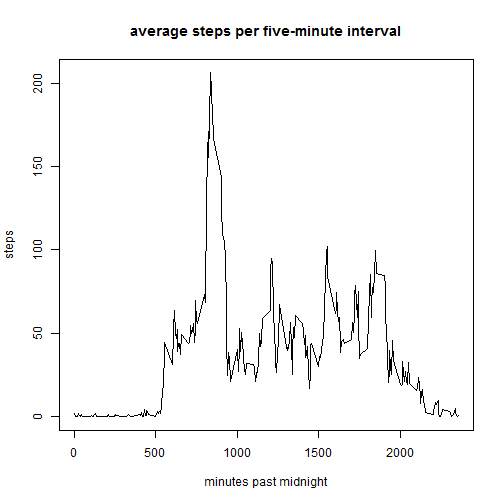
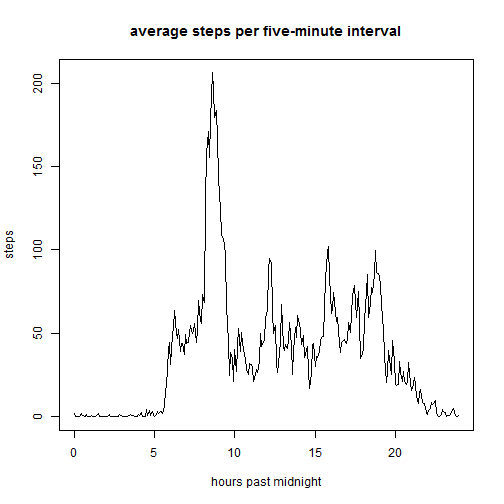
final changes
final changes

diff --git a/PA1_template.html b/PA1_template.html
@@ -3,7 +3,7 @@
 <head>
 <meta http-equiv="Content-Type" content="text/html; charset=utf-8"/>
 
-<title>Loading and preprocessing the data</title>
+<title>date: &ldquo;Sunday, November 15, 2015&rdquo;</title>
 
 <script type="text/javascript">
 window.onload = function() {
@@ -201,11 +201,25 @@ hr {
 </head>
 
 <body>
+<hr/>
+
+<p>title: &ldquo;Assignment 1 for Reproducible Research course&rdquo;</p>
+
+<p>output:
+  html_document:
+    keep_md: true</p>
+
+<p>author: &ldquo;Sumit Rahman&rdquo;</p>
+
+<h2>date: &ldquo;Sunday, November 15, 2015&rdquo;</h2>
+
 <h2>Loading and preprocessing the data</h2>
 
 <p>The following code reads the data, aggregates it by day (excluding NAs) and generates a histogram showing the distribution of the daily total number of steps:</p>
 
-<pre><code class="r">activity &lt;- read.table(unz(&quot;repdata-data-activity.zip&quot;, &quot;activity.csv&quot;), 
+<pre><code class="r">require(knitr)
+knit_theme$set(&quot;golden&quot;)
+activity &lt;- read.table(unz(&quot;repdata-data-activity.zip&quot;, &quot;activity.csv&quot;), 
                        header=T, quote=&quot;\&quot;&quot;, sep=&quot;,&quot;)
 daily.steps&lt;-aggregate(formula=steps ~ date, FUN=sum,data=activity, na.rm=TRUE)
 
@@ -228,22 +242,26 @@ result2&lt;-median(daily.steps$steps)
 
 <h2>What is the average daily activity pattern?</h2>
 
-<p>Now we take the mean number of steps for each 5 minute interval, averaged across all days, and plot this as a line graph:</p>
+<p>Now we take the mean number of steps for each 5 minute interval, averaged across all days, and plot this as a line graph.  First we convert the &#39;interval&#39; variable into hours past midnight.</p>
 
-<pre><code class="r">time.steps&lt;-aggregate(formula=steps ~ interval, FUN=mean,data=activity, 
+<pre><code class="r">activity$mins&lt;-activity$interval%%100
+activity$hrs&lt;-(activity$interval-activity$mins)/100
+activity$hrspastmidnight&lt;-activity$hrs+activity$mins/60
+
+time.steps&lt;-aggregate(formula=steps ~ hrspastmidnight, FUN=mean,data=activity, 
                       na.rm=TRUE)
 plot(time.steps, type=&quot;l&quot;,main=&quot;average steps per five-minute interval&quot;, 
-     xlab=&quot;minutes past midnight&quot;)
+     xlab=&quot;hours past midnight&quot;)
 </code></pre>
 
[2 lines of base64/hex data omitted]
 
 <p>The following code finds the interval with the largest (average) number of steps:</p>
 
-<pre><code class="r">max.interval&lt;-time.steps$interval[which(x = time.steps$steps==max(time.steps$steps),arr.ind = TRUE)]
+<pre><code class="r">max.interval&lt;-time.steps$hrspastmidnight[which(x = time.steps$steps==max(time.steps$steps),arr.ind = TRUE)]
 </code></pre>
 
-<p>The interval which has the greatest average steps taken is the five minute interval starting 835 minutes after midnight.  This average is 206.17.</p>
+<p>The interval which has the greatest average steps taken is the five minute interval starting 8.58 hours after midnight, i.e. at 8:35 in the morning.  This average is 206.17.</p>
 
 <h2>Imputing missing values</h2>
 
@@ -259,10 +277,10 @@ daily.steps.imputed&lt;-aggregate(formula=imputed ~ date, FUN=sum,
 
 hist(daily.steps.imputed$imputed, freq=FALSE, 
      main=&quot;total daily steps in October and November 2012&quot;, 
-     xlab=&quot;minutes past midnight&quot;)
+     xlab=&quot;daily steps&quot;)
 </code></pre>
 
[2 lines of base64/hex data omitted]
 
 <p>We also recalculate the mean and median for the total daily steps.</p>
 
@@ -279,27 +297,31 @@ result4&lt;-median(daily.steps.imputed$imputed)
 <p>Finally, we use the imputed dataset and recalculate the average number of steps per 5 minute interval, but distinguishing between weekdays and weekends.  We then plot line graphs for both these cases.</p>
 
 <pre><code class="r">require(ggplot2)
-activity$day&lt;-weekdays(as.POSIXct(activity$date))
+</code></pre>
+
+<pre><code>## Loading required package: ggplot2
+</code></pre>
+
+<pre><code class="r">activity$day&lt;-weekdays(as.POSIXct(activity$date))
 activity$is.weekend&lt;-ifelse(activity$day==&quot;Saturday&quot;,&quot;weekends&quot;,
                             ifelse(activity$day==&quot;Sunday&quot;,
                                    &quot;weekends&quot;,&quot;weekdays&quot;))
 interval.daytype&lt;-aggregate(activity$imputed, 
-                            list(interval = activity$interval, 
-                                 day = activity$is.weekend), mean)
+                            list(hrspastmidnight = activity$hrspastmidnight,  day = activity$is.weekend), mean)
 
-ggplot(data=interval.daytype, aes(x=interval, y=x))+
+ggplot(data=interval.daytype, aes(x=hrspastmidnight, y=x))+
   geom_line()+facet_grid(day~.)+
   theme(plot.title=element_text(size=rel(1.5)),
         strip.text=element_text(size=rel(2)))+
   ggtitle(&quot;average number of steps per five-minute interval \n
           for weekdays and weekends&quot;)+
-  xlab(&quot;minutes past midnight&quot;)+
+  xlab(&quot;hours past midnight&quot;)+
   ylab(&quot;average number of steps&quot;)
 </code></pre>
 
[2 lines of base64/hex data omitted]
 
-<p>We see from this chart that during weekdays there is a much more pronounced peak in step activity corresponding to lunchtime (approximately 800 minutes past midnight).  There is also a steeper increase in weekdays (compared to weekends) at roughly 9 a.m. corresponding to the start of the working day (just after 500 minutes past midnight).</p>
+<p>We see from this chart that during weekdays there is a much more pronounced peak in step activity corresponding to about 6 or 7 am, when people are getting up to get ready for work.  There is also a steeper increase in weekdays (compared to weekends) at roughly 9 a.m. corresponding to the start of the working day.  There is more activity in the weekends during the day from 10am.</p>
 
 </body>
 

diff --git a/PA1_template.md b/PA1_template.md
@@ -1,3 +1,4 @@
+
 ----
 title: "Assignment 1 for Reproducible Research course"
 
@@ -6,7 +7,7 @@ output:
     keep_md: true
     
 author: "Sumit Rahman"
-date: "Saturday, November 14, 2015"
+date: "Sunday, November 15, 2015"
 ---
 
 
@@ -16,6 +17,8 @@ The following code reads the data, aggregates it by day (excluding NAs) and gene
 
 
 ```r
+require(knitr)
+knit_theme$set("golden")
 activity <- read.table(unz("repdata-data-activity.zip", "activity.csv"), 
                        header=T, quote="\"", sep=",")
 daily.steps<-aggregate(formula=steps ~ date, FUN=sum,data=activity, na.rm=TRUE)
@@ -41,14 +44,18 @@ The mean number of steps per day is 10766.19, and the median is 10765.
 
 
 ## What is the average daily activity pattern?
-Now we take the mean number of steps for each 5 minute interval, averaged across all days, and plot this as a line graph:
+Now we take the mean number of steps for each 5 minute interval, averaged across all days, and plot this as a line graph.  First we convert the 'interval' variable into hours past midnight.
 
 
 ```r
-time.steps<-aggregate(formula=steps ~ interval, FUN=mean,data=activity, 
+activity$mins<-activity$interval%%100
+activity$hrs<-(activity$interval-activity$mins)/100
+activity$hrspastmidnight<-activity$hrs+activity$mins/60
+
+time.steps<-aggregate(formula=steps ~ hrspastmidnight, FUN=mean,data=activity, 
                       na.rm=TRUE)
 plot(time.steps, type="l",main="average steps per five-minute interval", 
-     xlab="minutes past midnight")
+     xlab="hours past midnight")
 ```
 
 ![plot of chunk chunk3](figure/chunk3-1.png) 
@@ -57,10 +64,10 @@ The following code finds the interval with the largest (average) number of steps
 
 
 ```r
-max.interval<-time.steps$interval[which(x = time.steps$steps==max(time.steps$steps),arr.ind = TRUE)]
+max.interval<-time.steps$hrspastmidnight[which(x = time.steps$steps==max(time.steps$steps),arr.ind = TRUE)]
 ```
 
-The interval which has the greatest average steps taken is the five minute interval starting 835 minutes after midnight.  This average is 206.17.
+The interval which has the greatest average steps taken is the five minute interval starting 8.58 hours after midnight, i.e. at 8:35 in the morning.  This average is 206.17.
 
 
 
@@ -79,7 +86,7 @@ daily.steps.imputed<-aggregate(formula=imputed ~ date, FUN=sum,
 
 hist(daily.steps.imputed$imputed, freq=FALSE, 
      main="total daily steps in October and November 2012", 
-     xlab="minutes past midnight")
+     xlab="daily steps")
 ```
 
 ![plot of chunk chunk 5](figure/chunk 5-1.png) 
@@ -100,26 +107,32 @@ Finally, we use the imputed dataset and recalculate the average number of steps 
 
 ```r
 require(ggplot2)
+```
+
+```
+## Loading required package: ggplot2
+```
+
+```r
 activity$day<-weekdays(as.POSIXct(activity$date))
 activity$is.weekend<-ifelse(activity$day=="Saturday","weekends",
                             ifelse(activity$day=="Sunday",
                                    "weekends","weekdays"))
 interval.daytype<-aggregate(activity$imputed, 
-                            list(interval = activity$interval, 
-                                 day = activity$is.weekend), mean)
+                            list(hrspastmidnight = activity$hrspastmidnight,  day = activity$is.weekend), mean)
 
-ggplot(data=interval.daytype, aes(x=interval, y=x))+
+ggplot(data=interval.daytype, aes(x=hrspastmidnight, y=x))+
   geom_line()+facet_grid(day~.)+
   theme(plot.title=element_text(size=rel(1.5)),
         strip.text=element_text(size=rel(2)))+
   ggtitle("average number of steps per five-minute interval \n
           for weekdays and weekends")+
-  xlab("minutes past midnight")+
+  xlab("hours past midnight")+
   ylab("average number of steps")
 ```
 
 ![plot of chunk chunk7](figure/chunk7-1.png) 
 
 
-We see from this chart that during weekdays there is a much more pronounced peak in step activity corresponding to lunchtime (approximately 800 minutes past midnight).  There is also a steeper increase in weekdays (compared to weekends) at roughly 9 a.m. corresponding to the start of the working day (just after 500 minutes past midnight).
+We see from this chart that during weekdays there is a much more pronounced peak in step activity corresponding to about 6 or 7 am, when people are getting up to get ready for work.  There is also a steeper increase in weekdays (compared to weekends) at roughly 9 a.m. corresponding to the start of the working day.  There is more activity in the weekends during the day from 10am.
 
